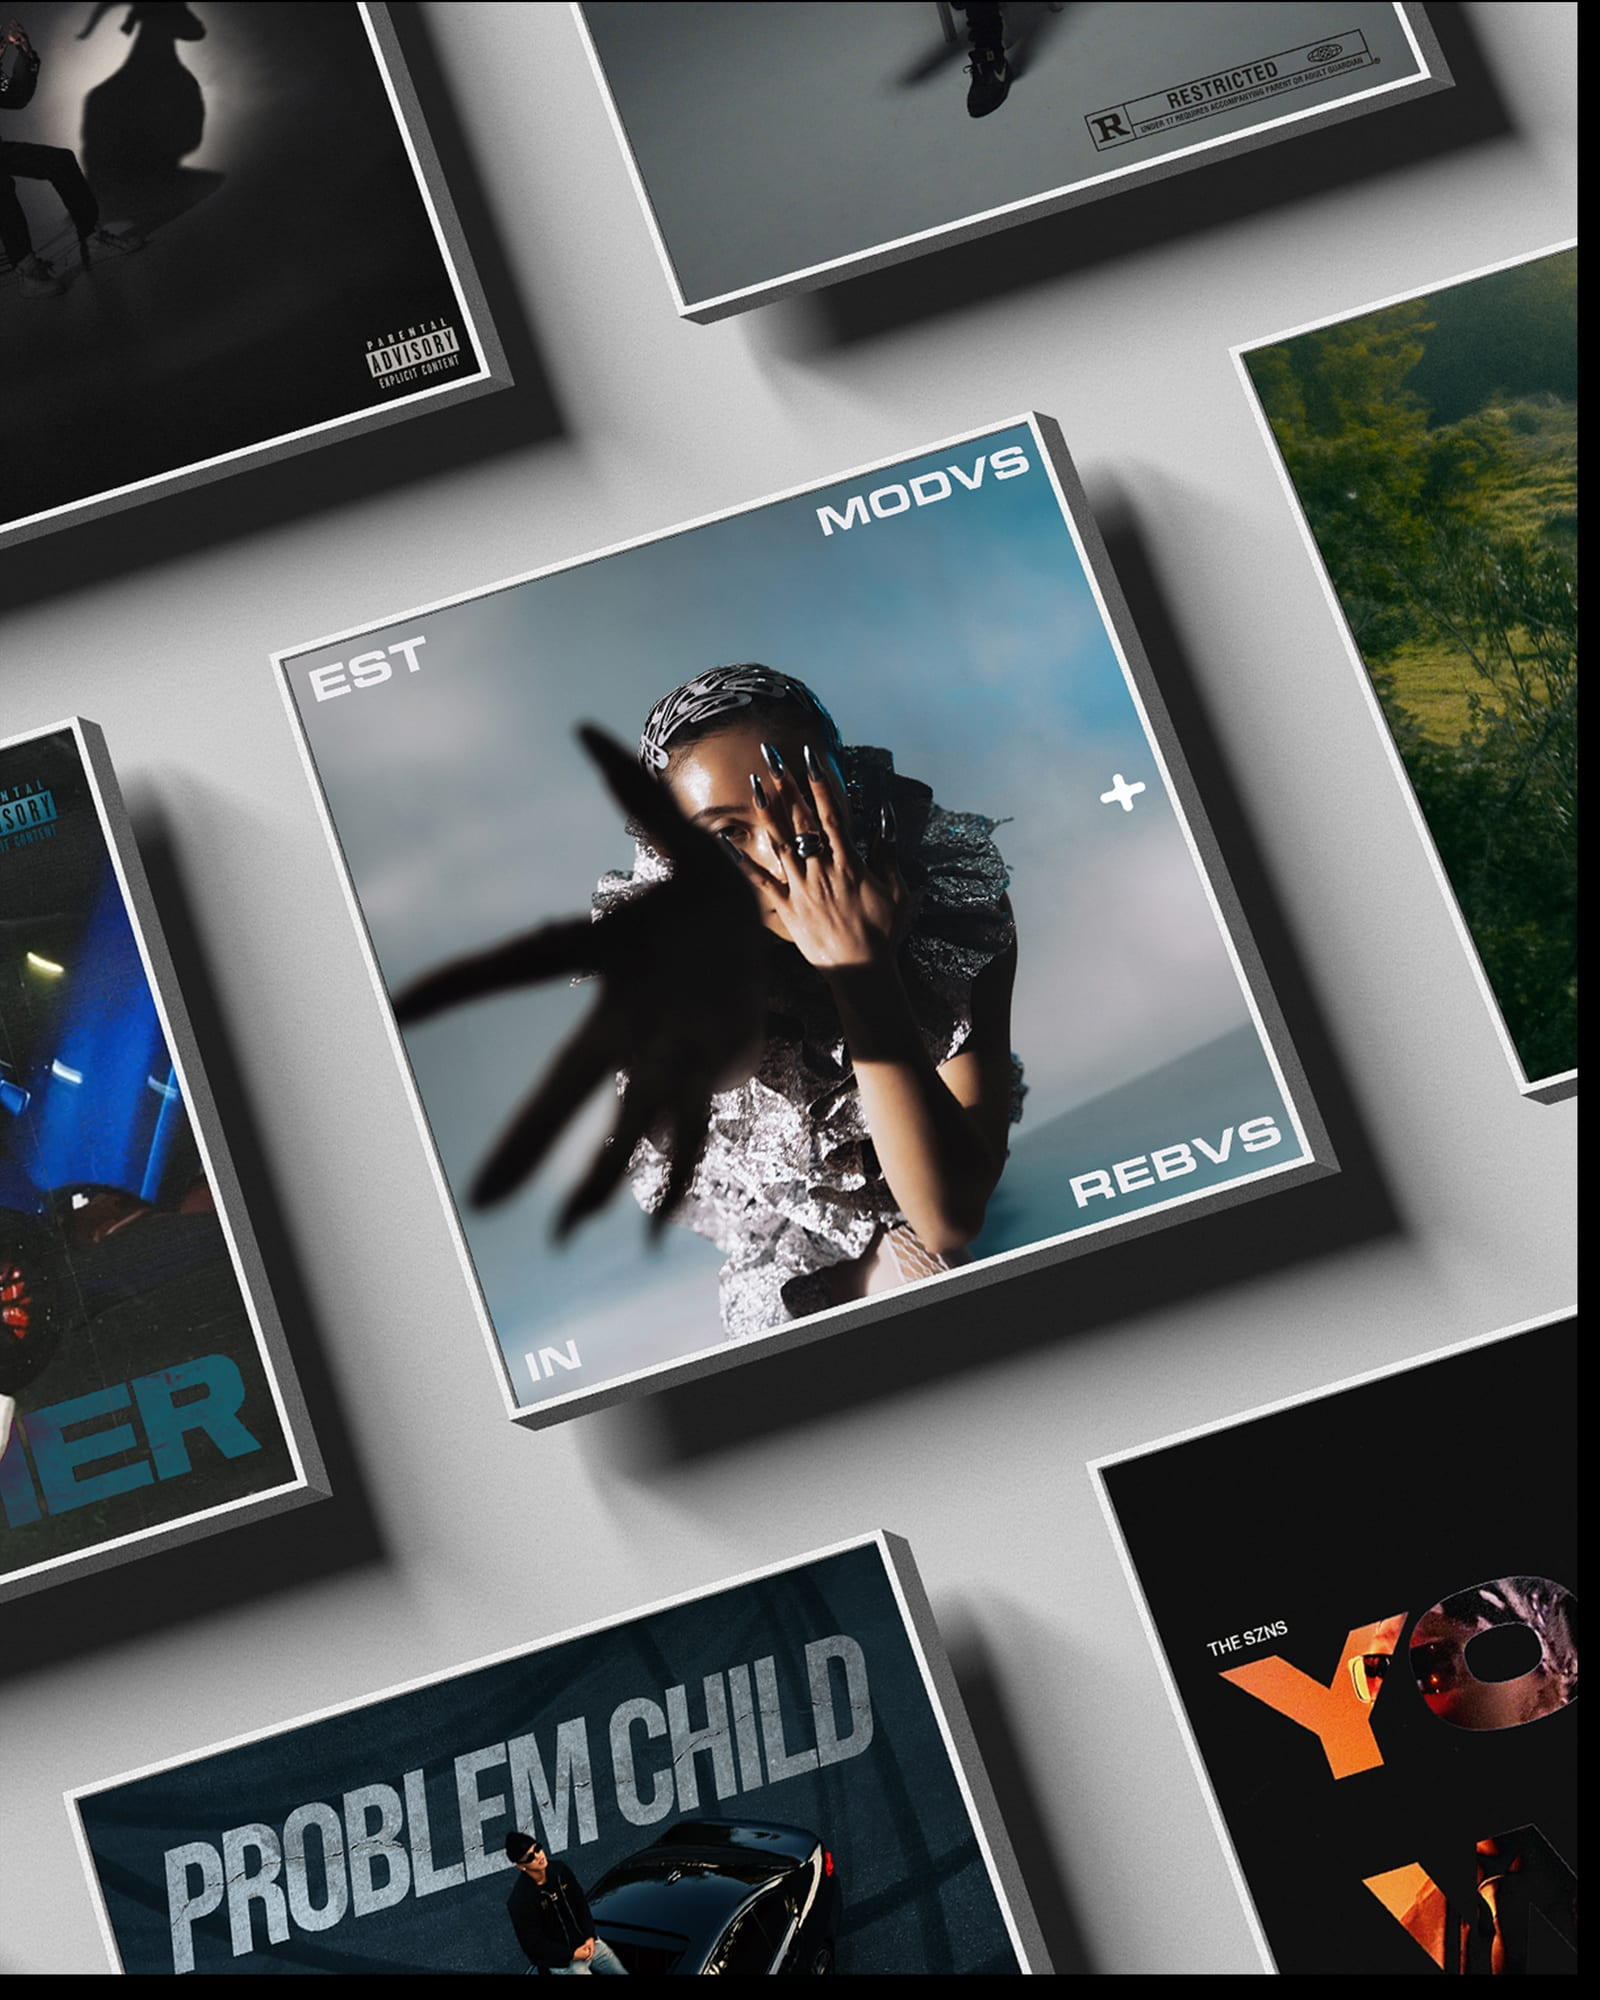
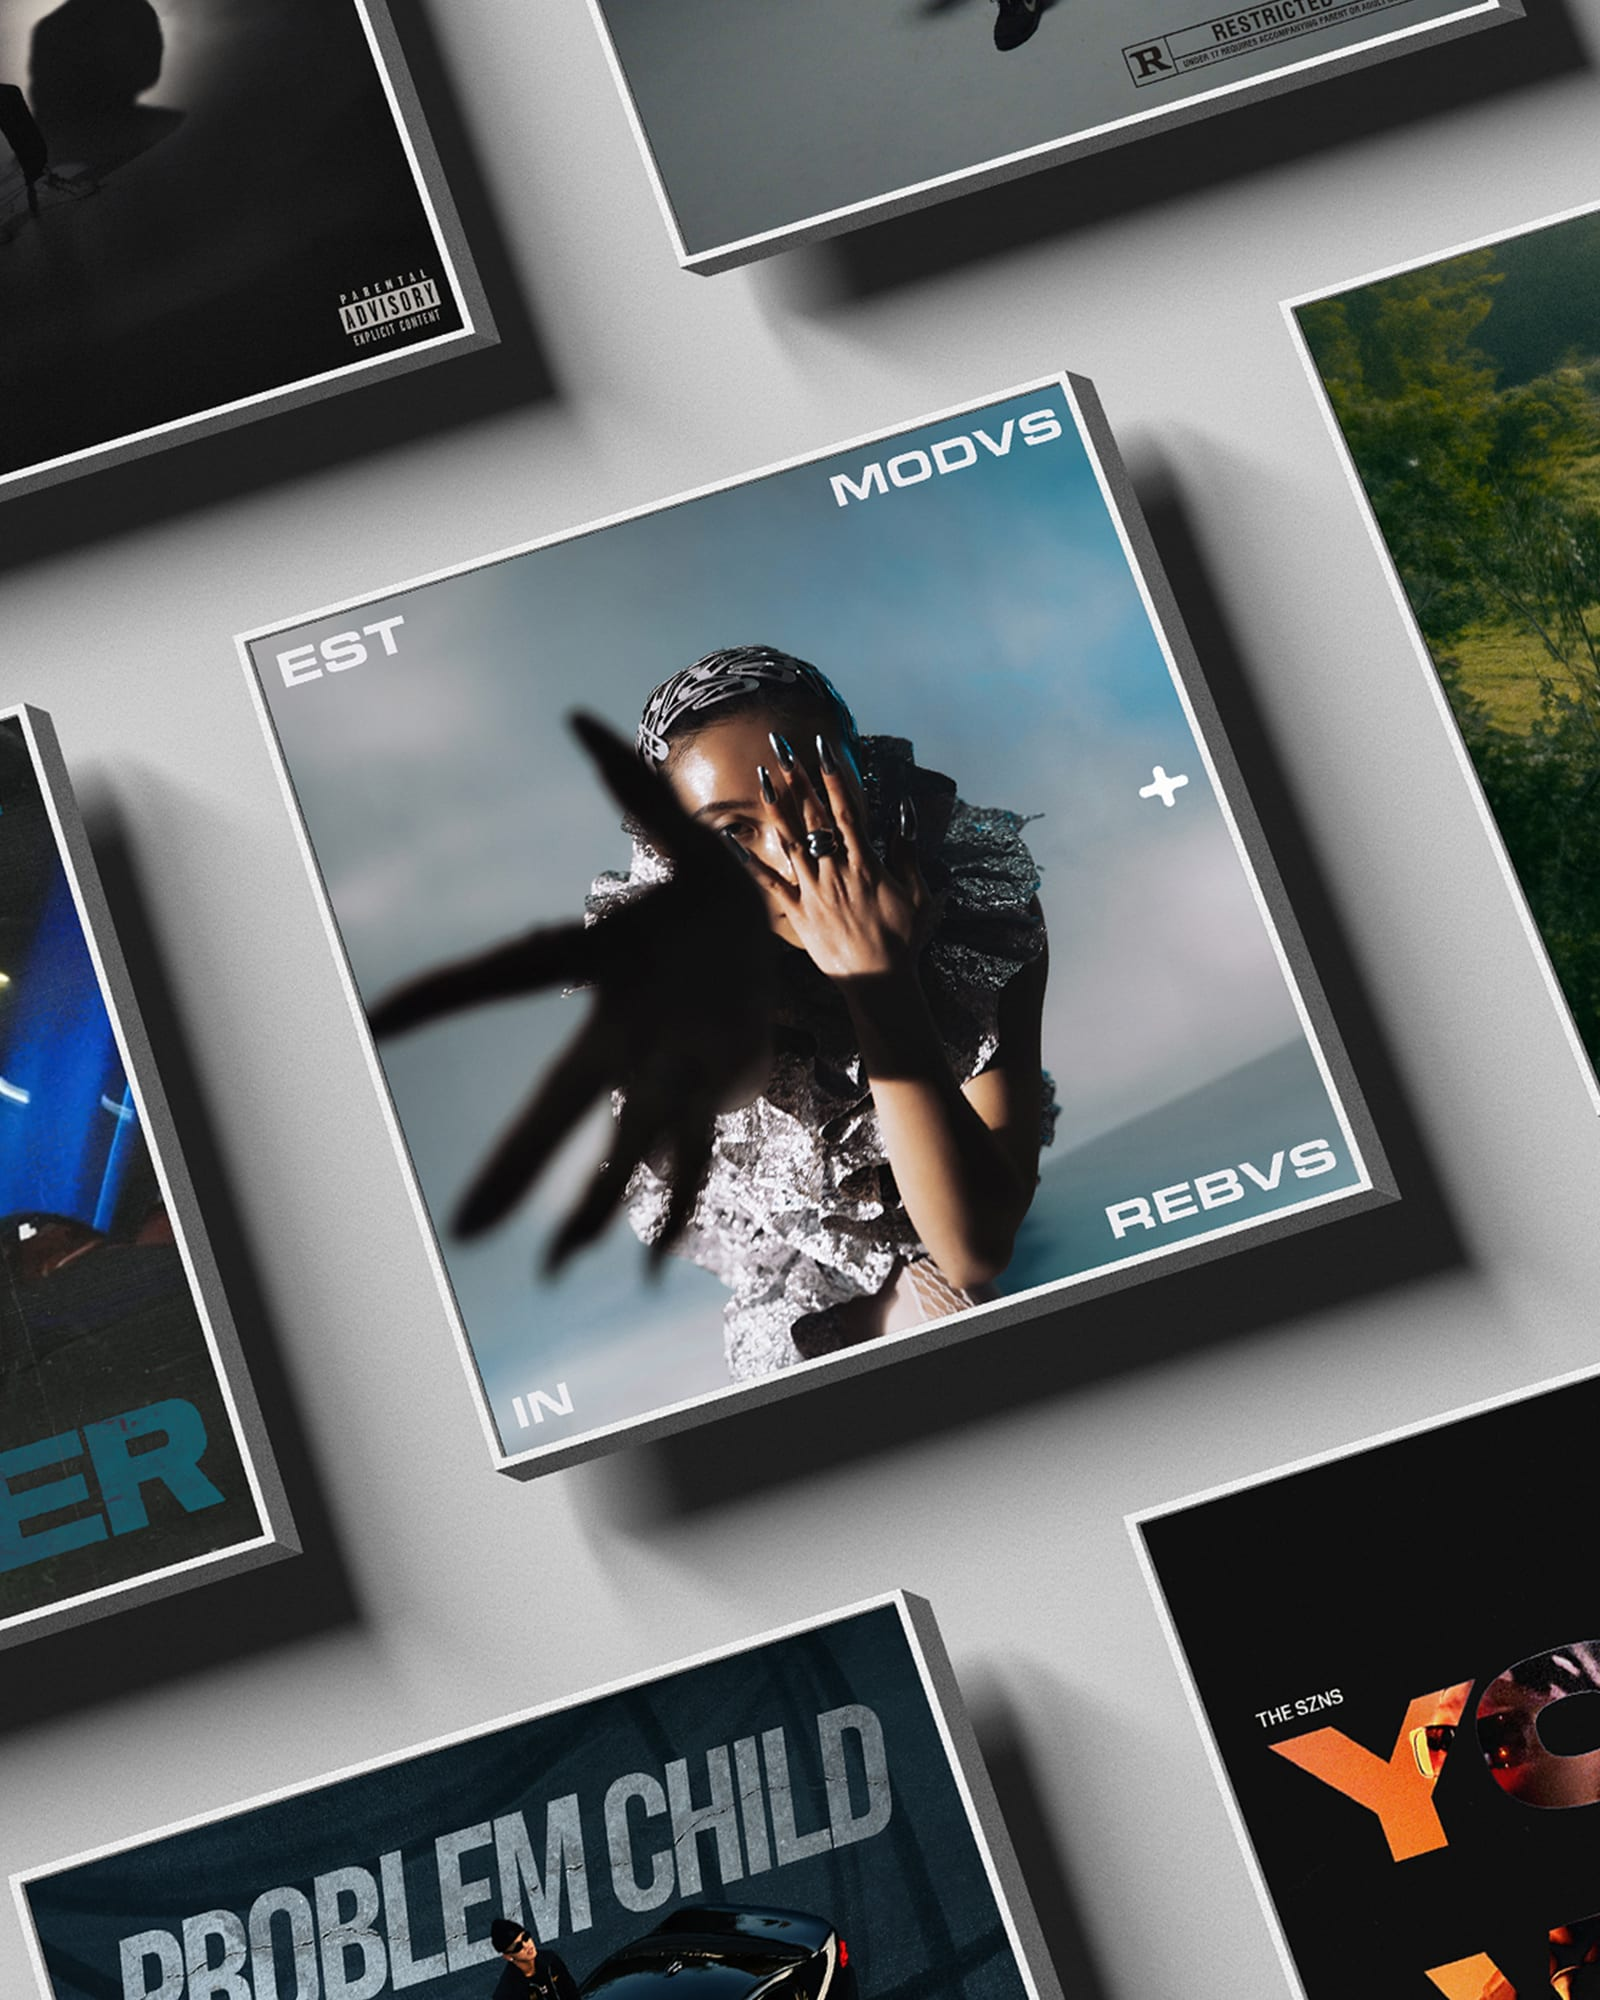
The cover-art frame fills its column
`sharp`'s `trim()` was about six pixels too generous on the mockup's
black surround, and after the crop and the resize those six pixels were
a 42px black band along the bottom and 22px down the right — so the
frame sat in the column with bars instead of filling it.

Replaced with the measured content box: scan for the first row and column
carrying any lit pixels, which puts the artwork at 6049x7557 — already
exactly 4:5, so nothing has to be thrown away to fit the column. Then 7%
tighter than that, which buries any single-pixel edge and brings the lead
sleeve up.

All four edges now read 71-94 rather than 0. Mat colour follows the new
crop's mean.

diff --git a/lib/work.ts b/lib/work.ts
@@ -385,7 +385,7 @@ const COVER_OVERRIDES: Record<string, Frame> = {
     src: "/hero/coverart.jpg",
     width: 1600,
     height: 2000,
-    color: "#5E6263",
+    color: "#65696A",
     alt: "Album sleeves laid out as prints, EST MODVS IN REBVS square to camera at the centre",
   },
 };
